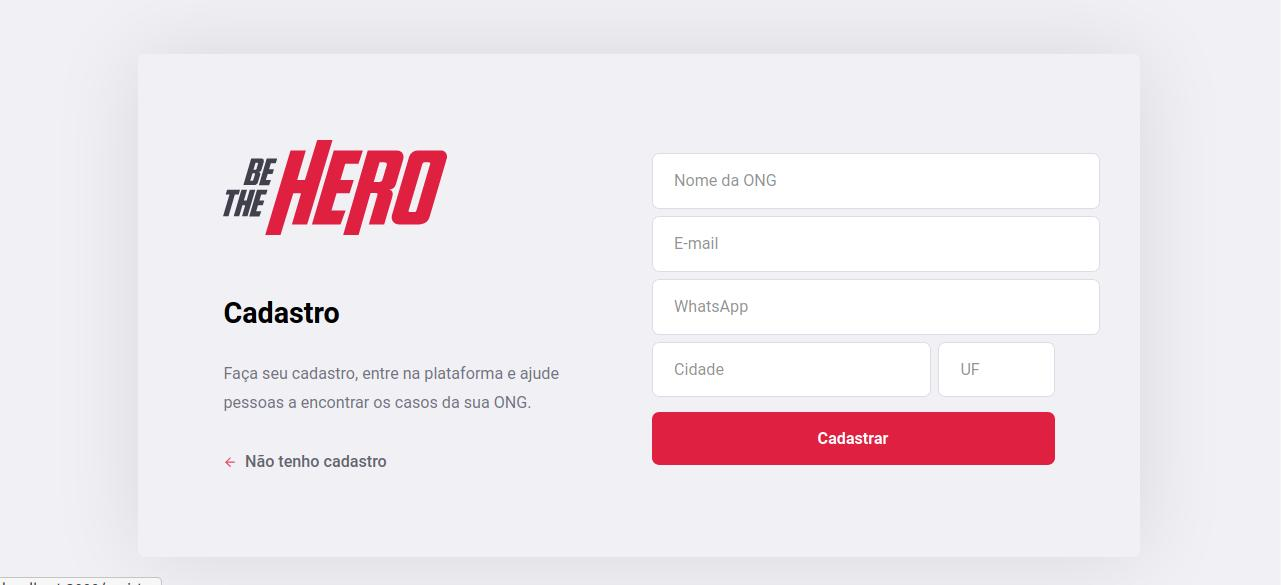
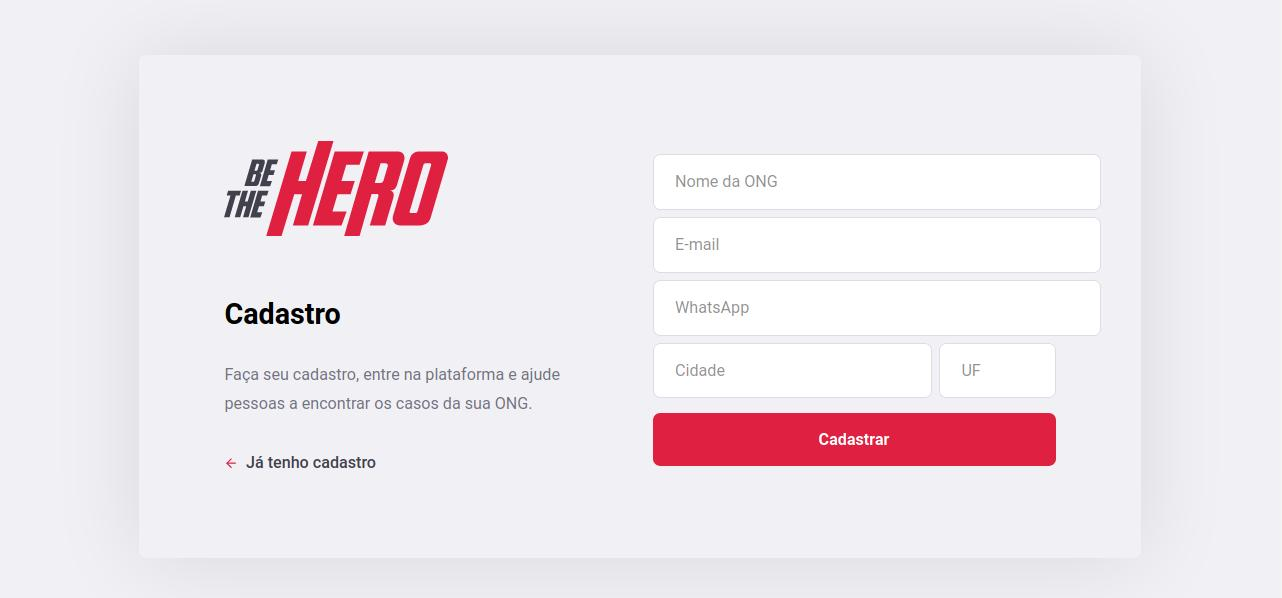
Ajuste no link retorno pra Home

diff --git a/frontend/src/pages/Register/index.js b/frontend/src/pages/Register/index.js
@@ -48,9 +48,9 @@ export default function Register() {
             os casos da sua ONG.
           </p>
 
-          <Link className="back-link" to="/register">
+          <Link className="back-link" to="/">
             <FiArrowLeft size={16} color="#e02041" />
-            Não tenho cadastro
+            Já tenho cadastro
           </Link>
         </section>
 
